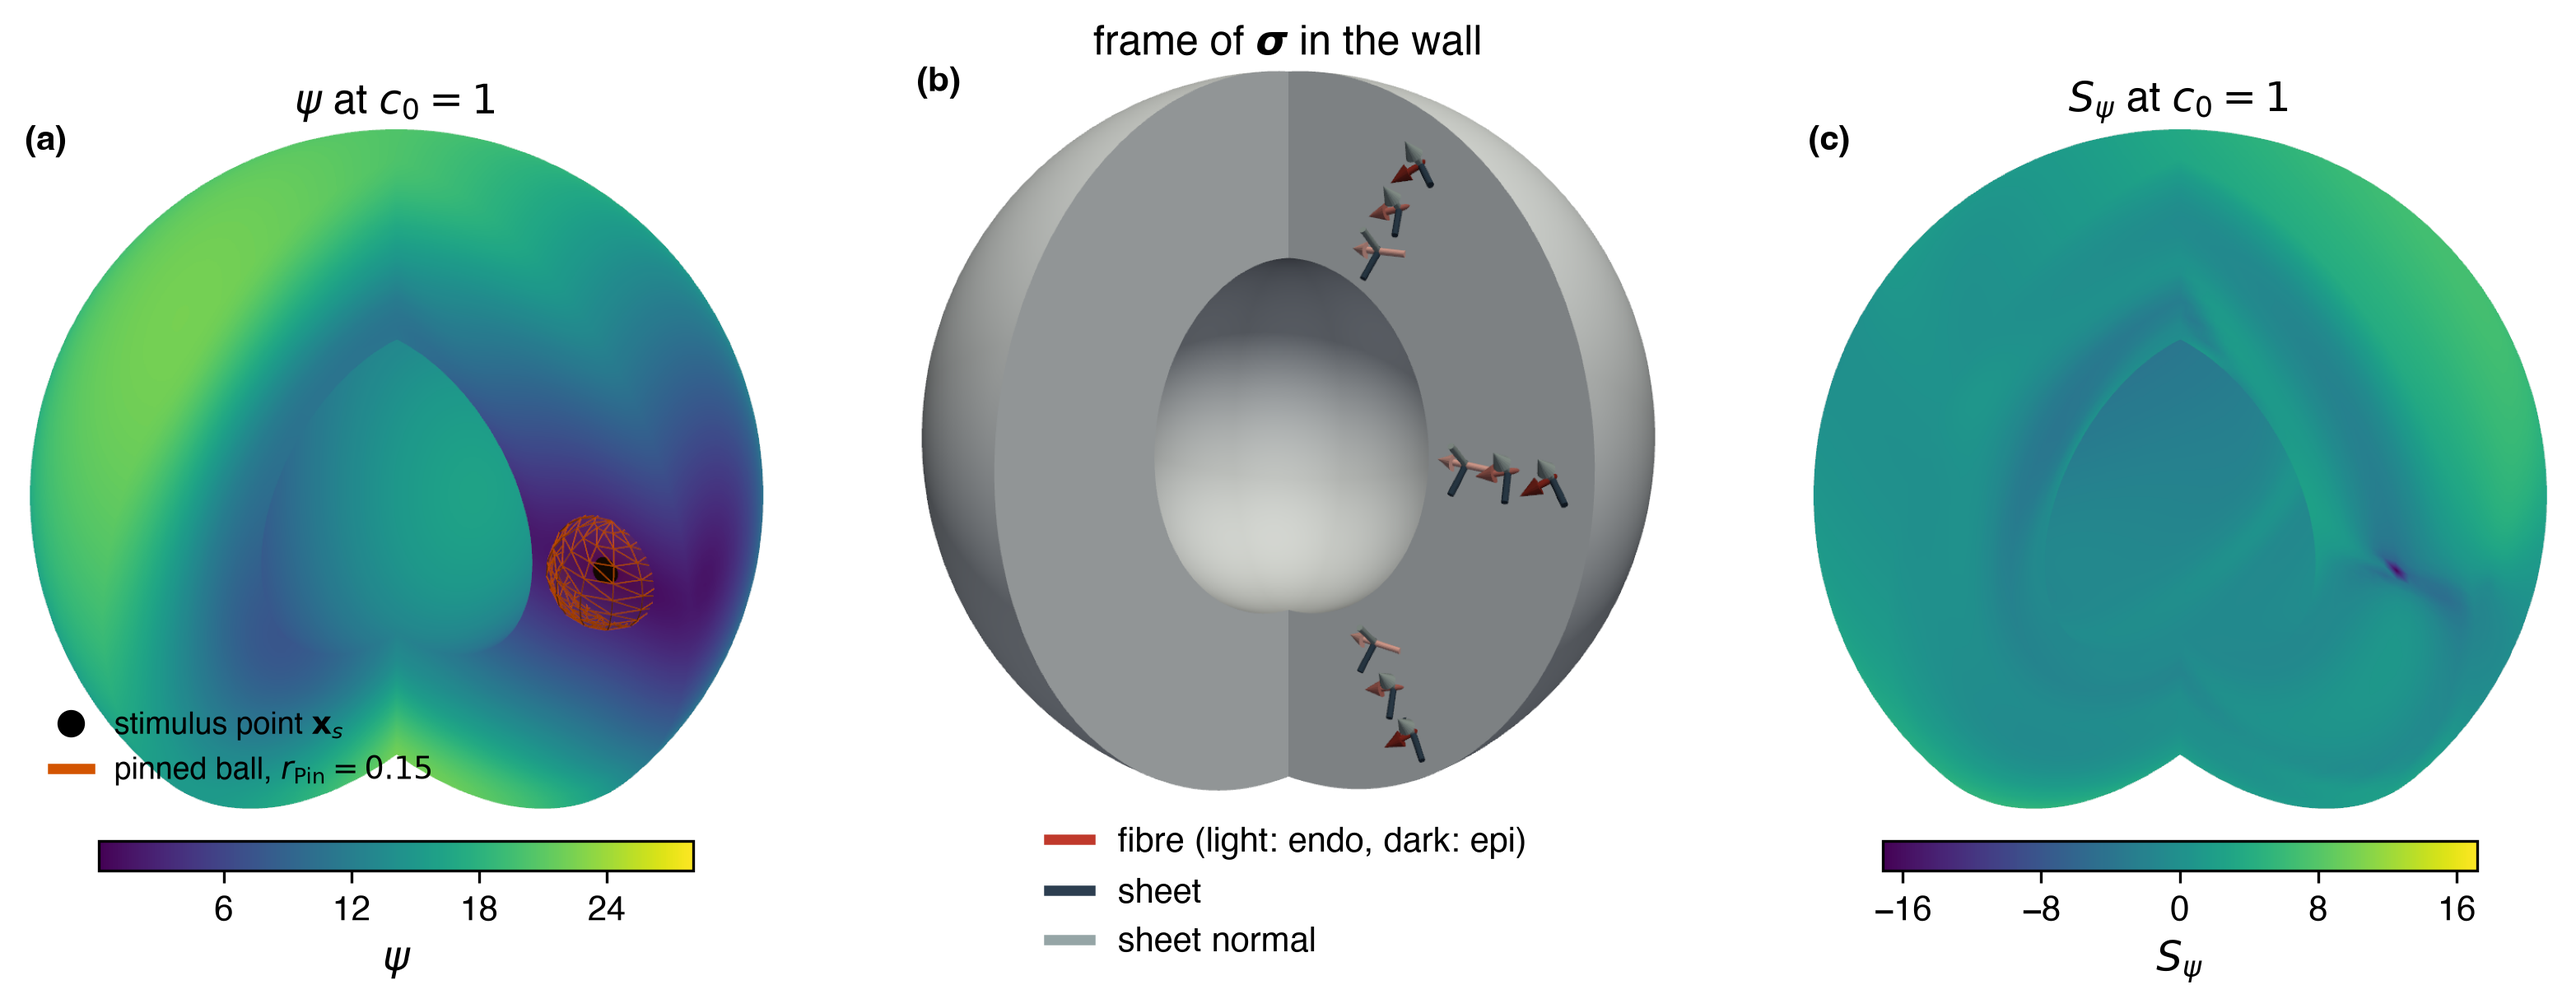
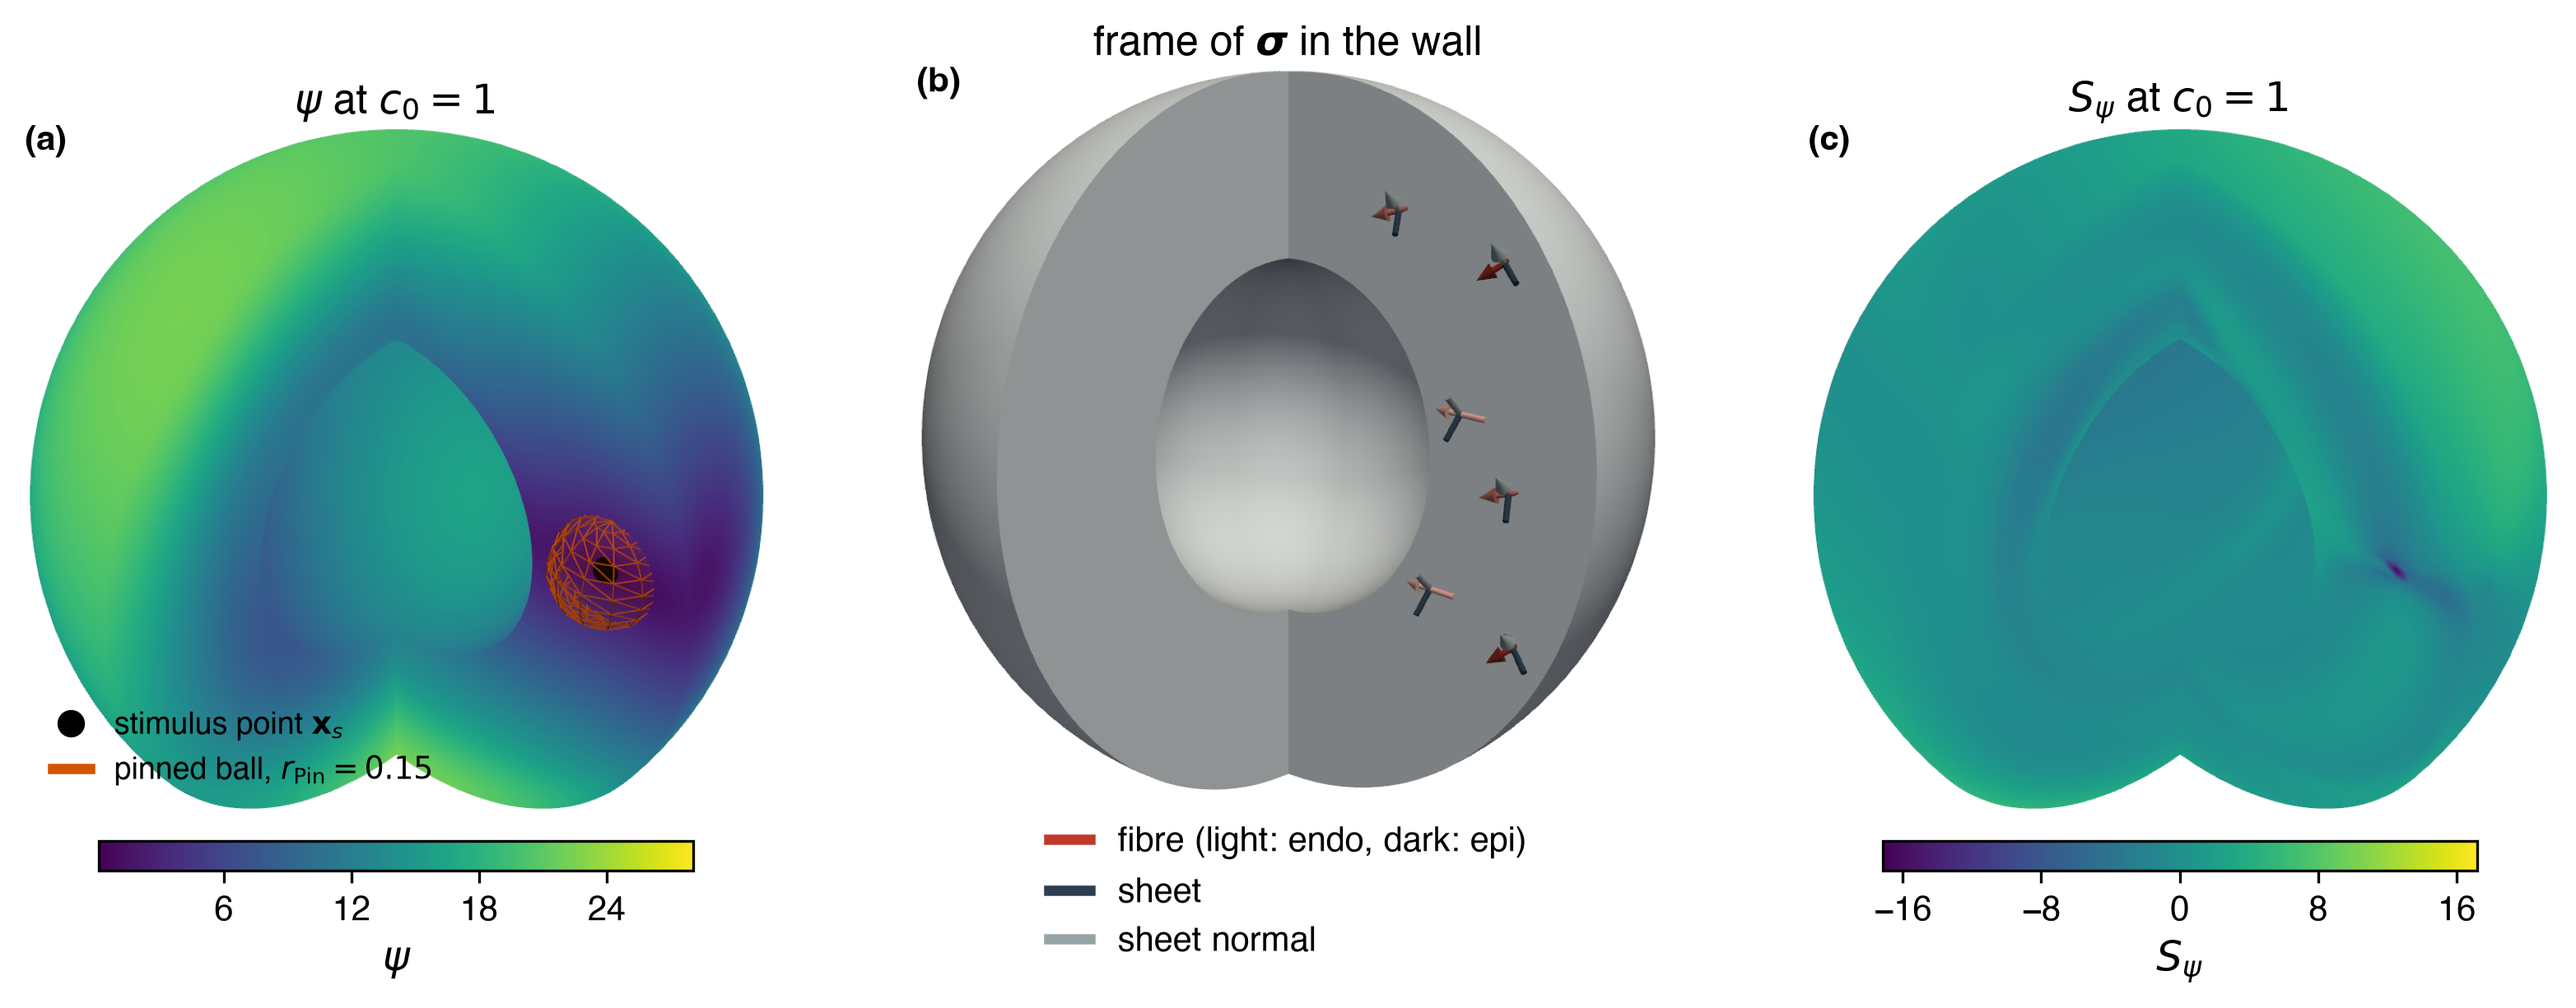
fix(mms): shell frame glyphs separated on screen, asserted in the shared glyph routine

diff --git a/tutorials/manufacturedSolutions/generators/docs/_common/figstyle.py b/tutorials/manufacturedSolutions/generators/docs/_common/figstyle.py
@@ -338,17 +338,6 @@ def principal_frame(sigma):
     return v[..., :, 2], v[..., :, 1], v[..., :, 0]
 
 
-def frame_points(r1, r2, n_theta=3, phi=0.5 * np.pi, half_length=0.08):
-    """Sites on the cut plane azimuth=phi: three radii, each at least half_length
-    plus a margin inside both walls, n_theta polar angles each."""
-    margin = half_length + 0.03
-    radii = (r1 + margin, 0.5 * (r1 + r2), r2 - margin)
-    th = np.linspace(0.55, np.pi - 0.55, n_theta)
-    pts = [(r * np.sin(t) * np.cos(phi), r * np.sin(t) * np.sin(phi), r * np.cos(t))
-           for r in radii for t in th]
-    return np.array(pts)
-
-
 def depth_shades(n_radii, n_per_radius):
     """One colour per frame point: endocardium light to epicardium dark."""
     lo, hi = FIBRE_DEPTH
@@ -399,32 +388,84 @@ def frame_view(vectors, centre, max_angle=25.0, samples=8000, seed=1):
     return d[np.argmax(proj)], float(proj.max())
 
 
-def shell_frame_glyphs(ref, p, phi=0.5 * np.pi, length=0.18):
+def screen_basis(direction):
+    """Right and up vectors of a camera that looks along -direction with up = z."""
+    forward = -np.asarray(direction, float)
+    forward /= np.linalg.norm(forward)
+    right = np.cross(forward, (0.0, 0.0, 1.0))
+    right /= np.linalg.norm(right)
+    return right, np.cross(right, forward)
+
+
+def glyph_separation(pts, vectors, length, direction, samples=24):
+    """Smallest screen-space distance between arrows of different sites: every
+    arrow (a segment from -L/2 to +L/2 about its site) is projected along the view
+    direction and sampled; the distance is taken over all pairs of arrows that
+    belong to different sites."""
+    right, up = screen_basis(direction)
+    u = np.linspace(-0.5, 0.5, samples)
+    sets = []
+    for i, point in enumerate(pts):
+        arrows = []
+        for vec in vectors:
+            xyz = point[None, :] + u[:, None] * length * vec[i][None, :]
+            arrows.append(np.stack([xyz @ right, xyz @ up], axis=1))
+        sets.append(np.concatenate(arrows, axis=0))
+    best = np.inf
+    for i in range(len(sets)):
+        for j in range(i + 1, len(sets)):
+            diff = sets[i][:, None, :] - sets[j][None, :, :]
+            best = min(best, float(np.sqrt((diff ** 2).sum(axis=2)).min()))
+    return best
+
+
+def shell_frame_glyphs(ref, p, phi=0.5 * np.pi, length=0.16, margin=0.05,
+                       n_theta=2, n_candidates=300, seed=3):
     """Draw the frame (fibre, sheet, sheet normal) of sigma on the cut face phi as
-    arrows of equal length centred on nine sites, and carry the view direction in
-    `.direction`.  Asserted: the vectors are orthonormal, and both ends of every
-    arrow lie inside r1 < |x| < r2."""
-    pts = frame_points(p["r1"], p["r2"], phi=phi, half_length=0.5 * length)
-    sigma = ref.field("sigma", pts[:, 0], pts[:, 1], pts[:, 2])
-    fibre, sheet, normal = principal_frame(sigma)
+    arrows of equal length centred on 3 x n_theta sites (three radii, n_theta polar
+    angles each), and carry the view direction in `.direction`.  The sites are the
+    candidate, out of a seeded search, whose arrows are best separated on screen.
+    Asserted: the vectors are orthonormal; both ends of every arrow lie inside
+    r1 < |x| < r2; arrows of different sites are more than `margin` apart in the
+    image; every frame vector keeps a visible projected length."""
+    half = 0.5 * length
+    pad = half + 0.03
+    radii = (p["r1"] + pad, 0.5 * (p["r1"] + p["r2"]), p["r2"] - pad)
+    face = np.array([np.sin(phi), -np.cos(phi), 0.0])
+    along = np.array([np.cos(phi), np.sin(phi), 0.0])
+    centre = 0.94 * face + 0.34 * along + np.array([0.0, 0.0, 0.3])
+    centre /= np.linalg.norm(centre)
+    rng = np.random.default_rng(seed)
+    best = None
+    for _ in range(n_candidates):
+        theta = np.sort(rng.uniform(0.5, np.pi - 0.5, size=(3, n_theta)), axis=1)
+        pts = np.array([(r * np.sin(t) * np.cos(phi), r * np.sin(t) * np.sin(phi),
+                         r * np.cos(t)) for r, row in zip(radii, theta) for t in row])
+        sigma = ref.field("sigma", pts[:, 0], pts[:, 1], pts[:, 2])
+        fibre, sheet, normal = principal_frame(sigma)
+        direction, shortest = frame_view([fibre, sheet, normal], centre)
+        if shortest < 0.5:
+            continue
+        sep = glyph_separation(pts, (fibre, sheet, normal), length, direction)
+        if best is None or sep > best[0]:
+            best = (sep, pts, fibre, sheet, normal, direction, shortest)
+    assert best is not None, "no candidate keeps every frame vector visible"
+    sep, pts, fibre, sheet, normal, direction, shortest = best
     assert np.abs((fibre * sheet).sum(1)).max() < 1e-12
     assert np.abs((fibre * normal).sum(1)).max() < 1e-12
     assert np.abs((sheet * normal).sum(1)).max() < 1e-12
     for vec in (fibre, sheet, normal):
         for sign in (-1.0, 1.0):
-            r = np.linalg.norm(pts + sign * 0.5 * length * vec, axis=1)
+            r = np.linalg.norm(pts + sign * half * vec, axis=1)
             assert np.all(r > p["r1"]) and np.all(r < p["r2"]), "arrow leaves the wall"
-    face = np.array([np.sin(phi), -np.cos(phi), 0.0])
-    along = np.array([np.cos(phi), np.sin(phi), 0.0])
-    centre = 0.94 * face + 0.34 * along + np.array([0.0, 0.0, 0.3])
-    direction, shortest = frame_view([fibre, sheet, normal], centre / np.linalg.norm(centre))
-    draw_direction = direction
+    assert sep > margin, "glyphs overlap on screen (separation %.3f)" % sep
 
     def draw(pl):
-        add_frame_glyphs(pl, pts, [(fibre, depth_shades(3, len(pts) // 3)),
+        add_frame_glyphs(pl, pts, [(fibre, depth_shades(3, n_theta)),
                                    (sheet, SHEET), (normal, NORMAL)], length)
-    draw.direction = tuple(draw_direction)
+    draw.direction = tuple(direction)
     draw.shortest_projection = shortest
+    draw.separation = sep
     return draw
 
 
